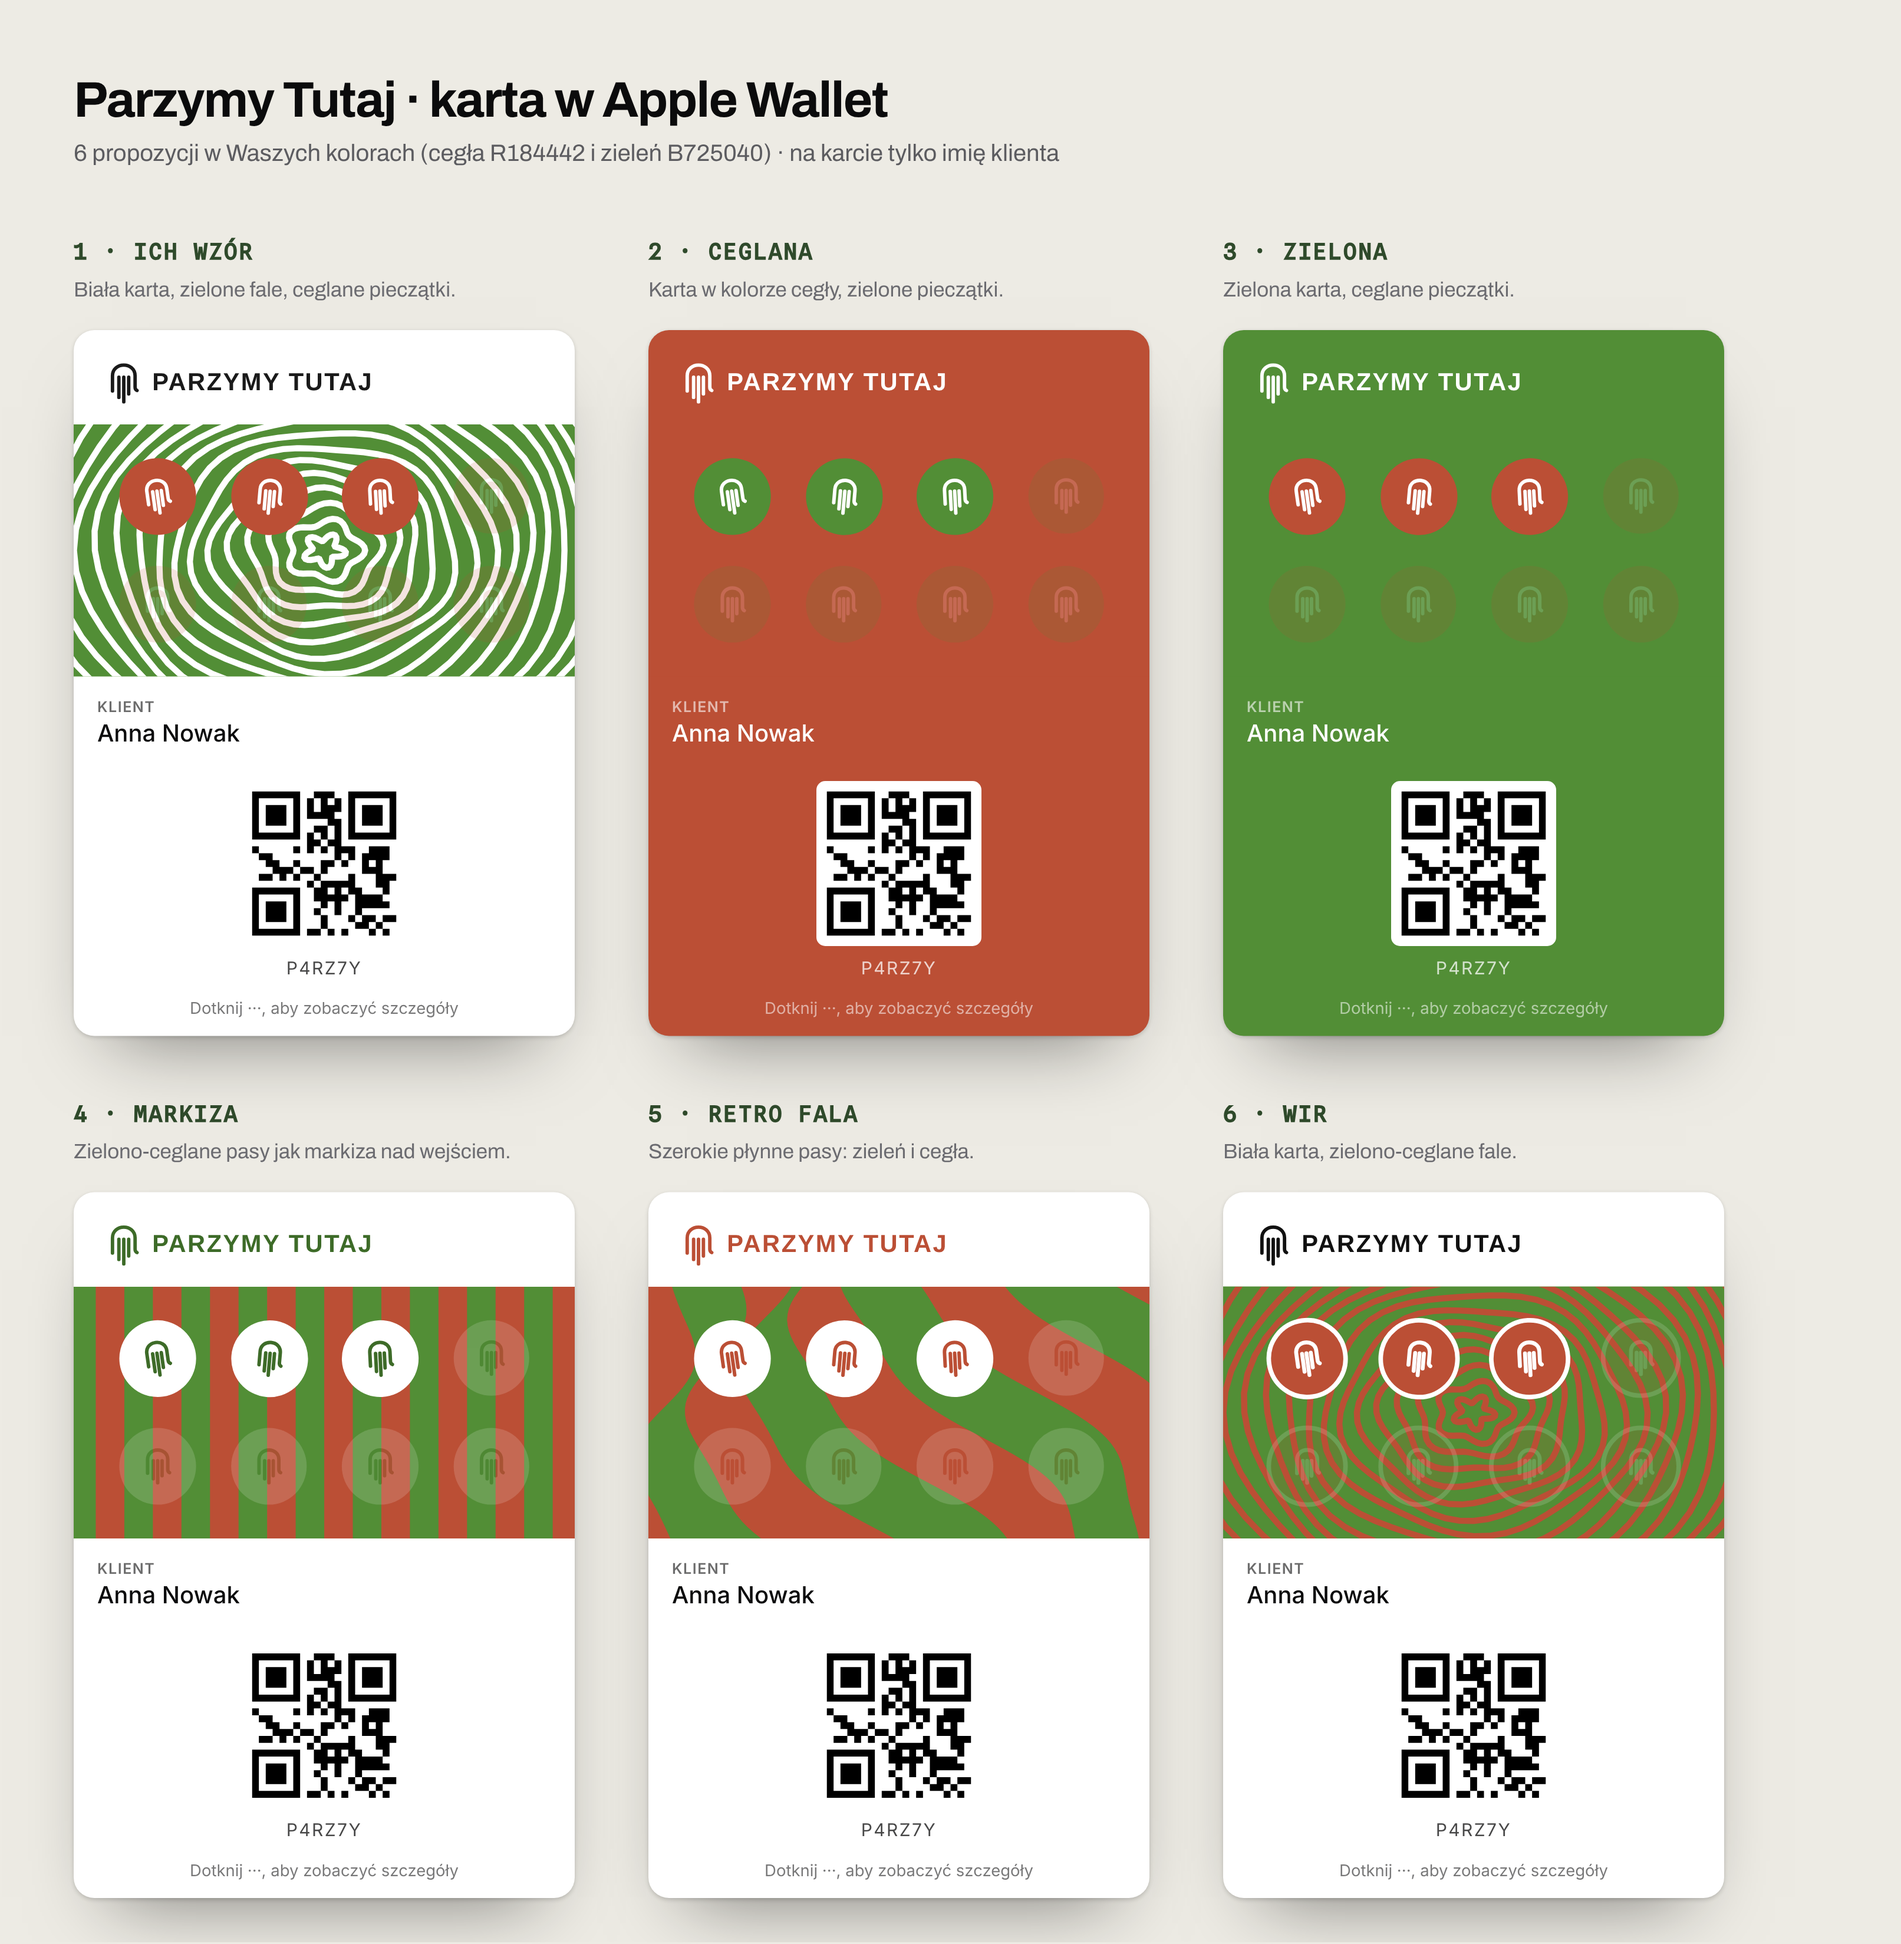
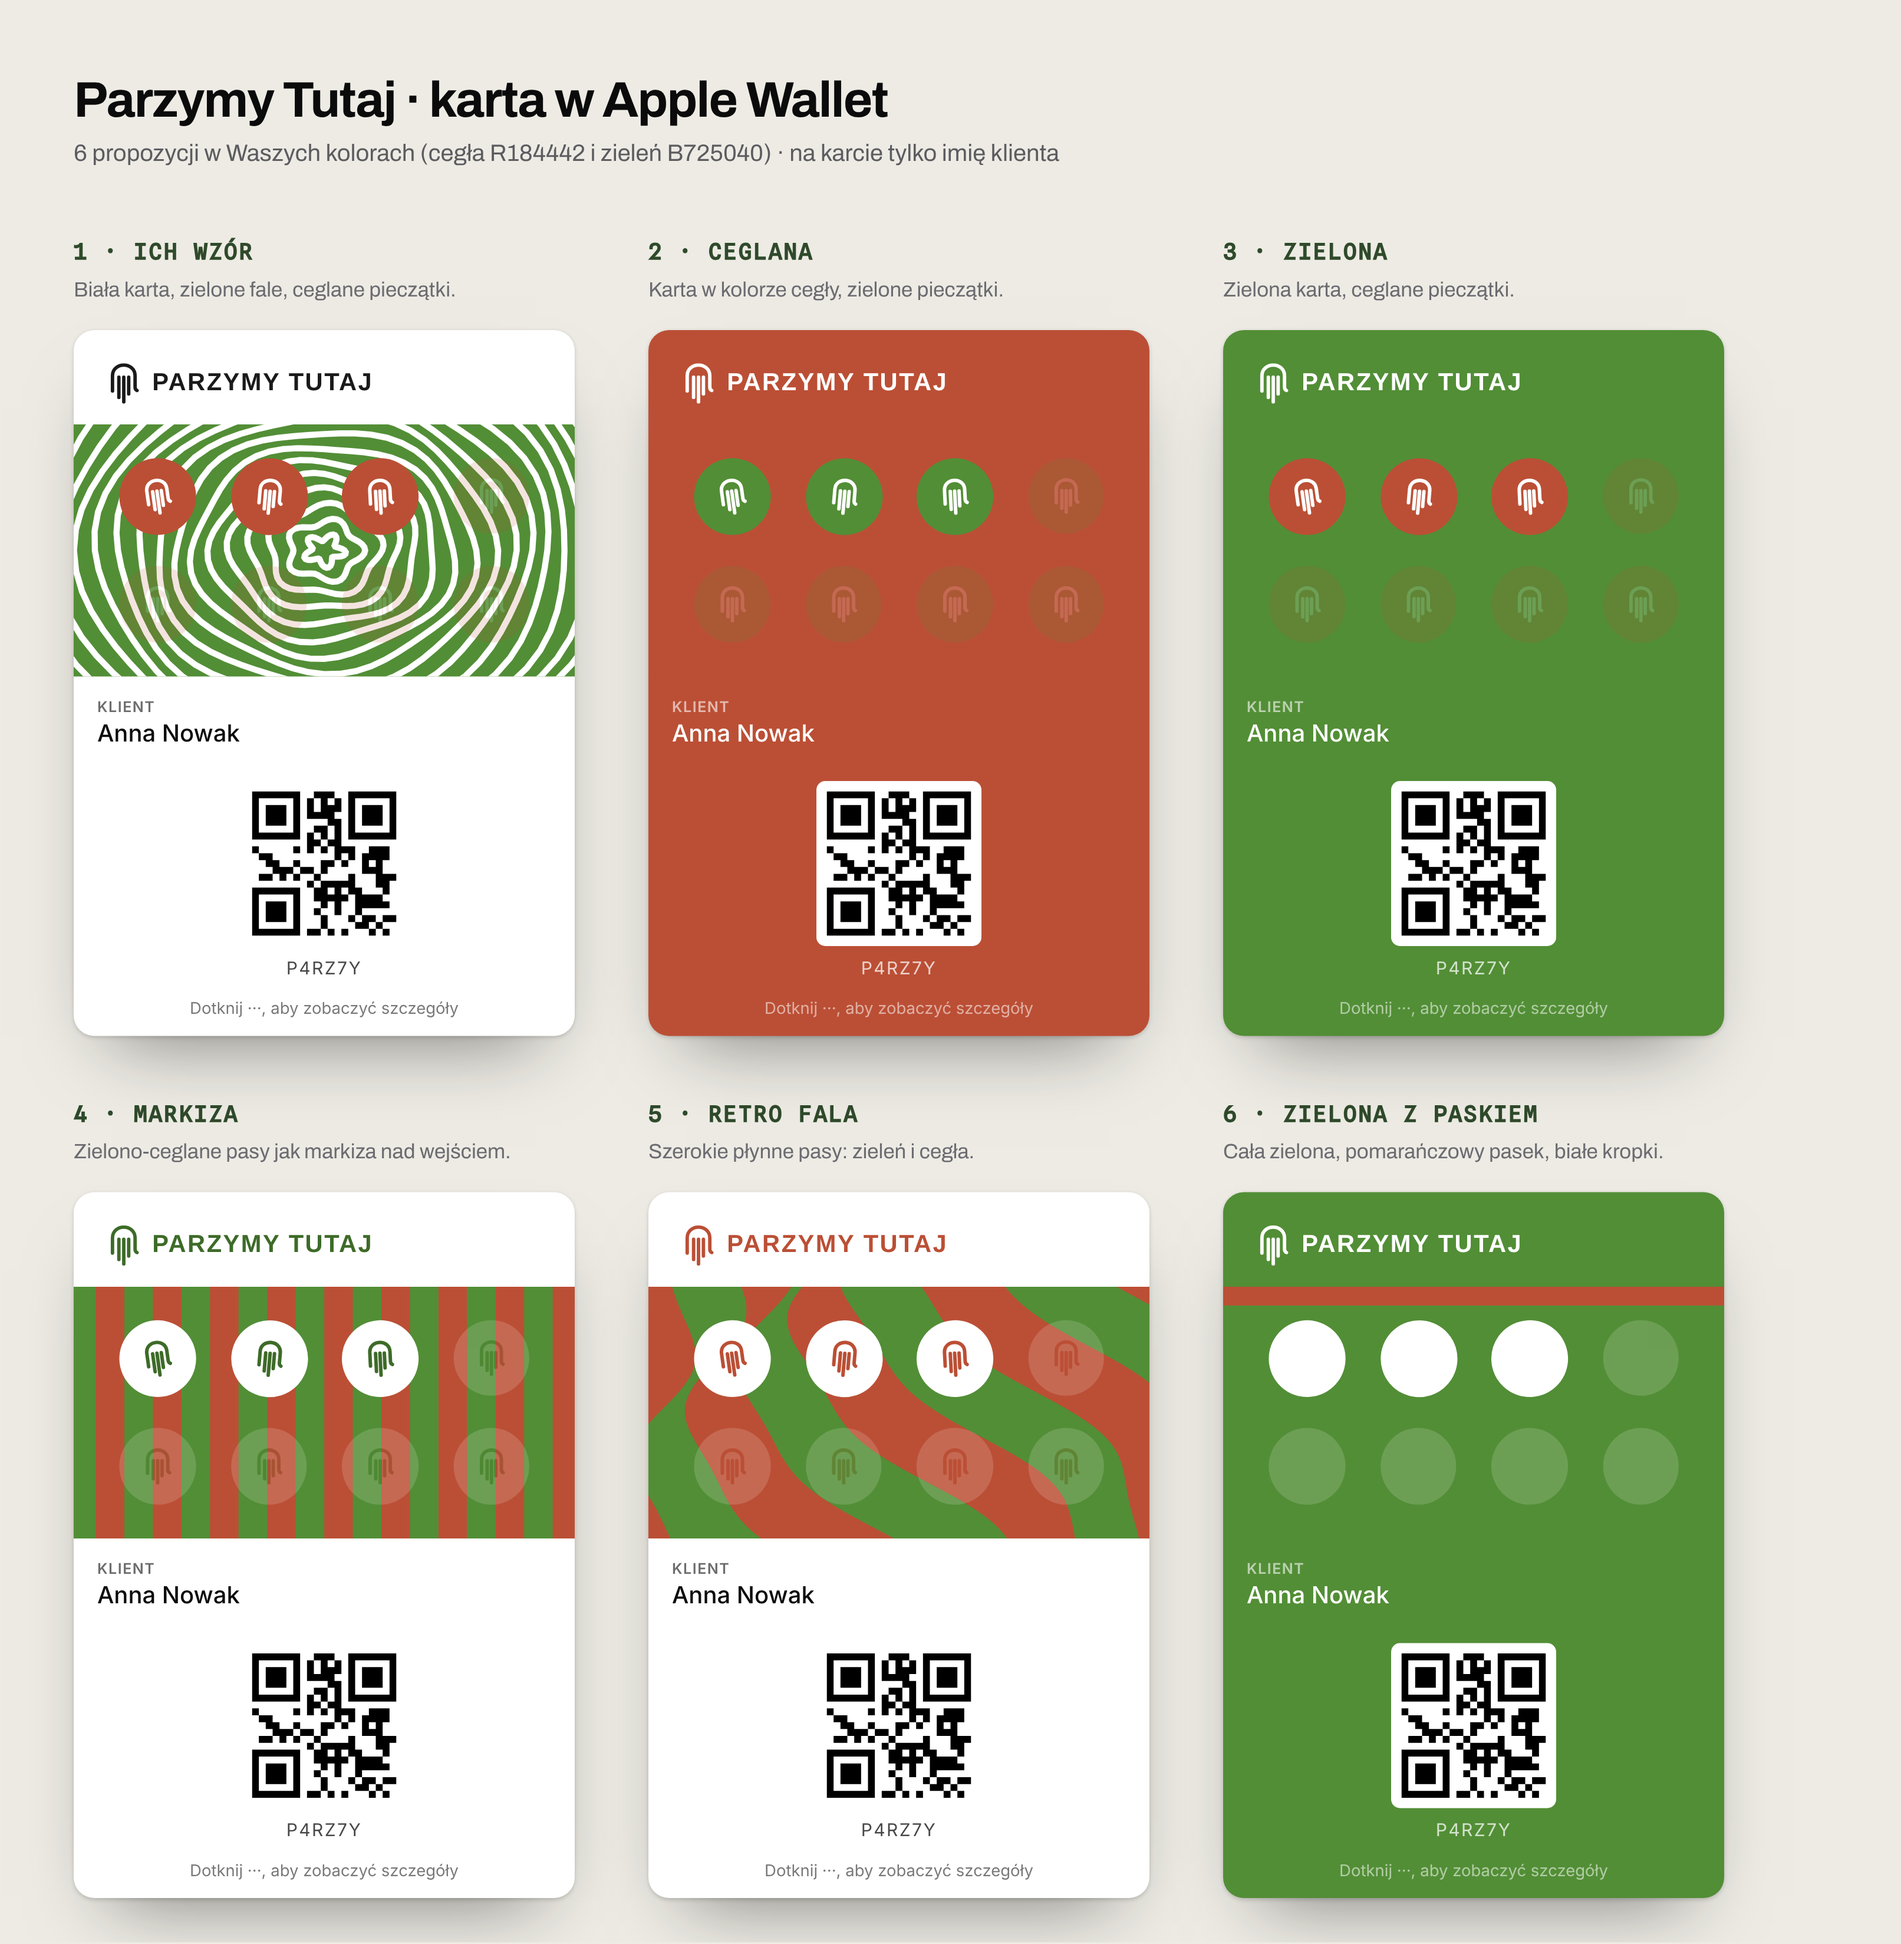
Parzymy options: card 6 all green with an orange bar and plain white dots
Claude-Session: https://claude.ai/code/session_01P7jvwC9jL6ipCqqXJiCoo9

Changed region(s): [[0.6202, 0.5622, 0.9302, 0.9994]]

diff --git a/print/parzymy-options.html b/print/parzymy-options.html
@@ -111,7 +111,7 @@ body{margin:0;background:#EDEBE4}
     ['3 · Zielona', 'Zielona karta, ceglane pieczątki.', { ...BASE, color: G, ink: W, strip: G, logo: caps(W), stripImage: plain(G), stampImage: mk(R, W) }],
     ['4 · Markiza', 'Zielono-ceglane pasy jak markiza nad wejściem.', { ...BASE, color: W, ink: '#1A1A1A', strip: W, logo: caps(GR[700]), stripImage: awning(G, R), stampImage: mk(W, GR[700]) }],
     ['5 · Retro fala', 'Szerokie płynne pasy: zieleń i cegła.', { ...BASE, color: W, ink: '#1A1A1A', strip: W, logo: caps(R), stripImage: flow([G, R]), stampImage: mk(W, R) }],
-    ['6 · Wir', 'Biała karta, zielono-ceglane fale.', { ...BASE, color: W, ink: '#1A1A1A', strip: G, logo: caps('#111111'), stripImage: swirl(G, R), stampImage: svgUrl(`<svg xmlns="http://www.w3.org/2000/svg" viewBox="0 0 100 100"><circle cx="50" cy="50" r="42" fill="${R}" stroke="${W}" stroke-width="5"/><g transform="translate(26 22) scale(.48)">${markG(W, 9)}</g></svg>`) }]
+    ['6 · Zielona z paskiem', 'Cała zielona, pomarańczowy pasek, białe kropki.', { ...BASE, color: G, ink: W, strip: G, logo: caps(W), stripImage: band(G, R), stampImage: disc(W) }]
   ];
   const who = { id: 'P4RZ7Y', name: 'Anna Nowak', stamps: 3 };
   document.getElementById('grid').innerHTML = OPTS.map(([h, p, card]) => `<div class="opt"><h2>${h}</h2><p>${p}</p>${UI.renderPass(card, who, { platform: 'apple' })}</div>`).join('');
